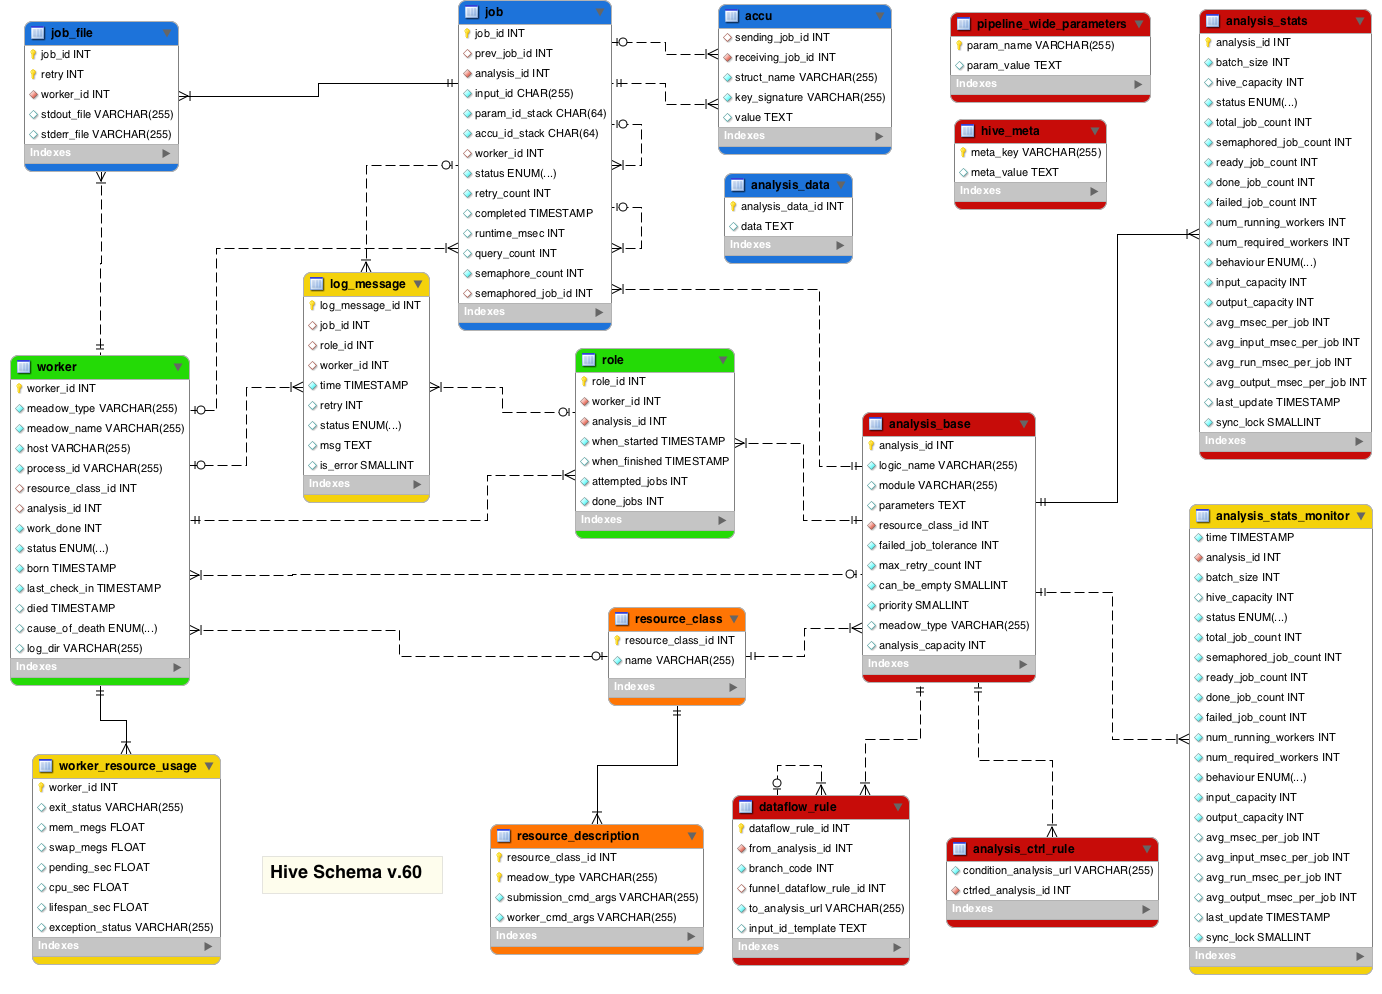
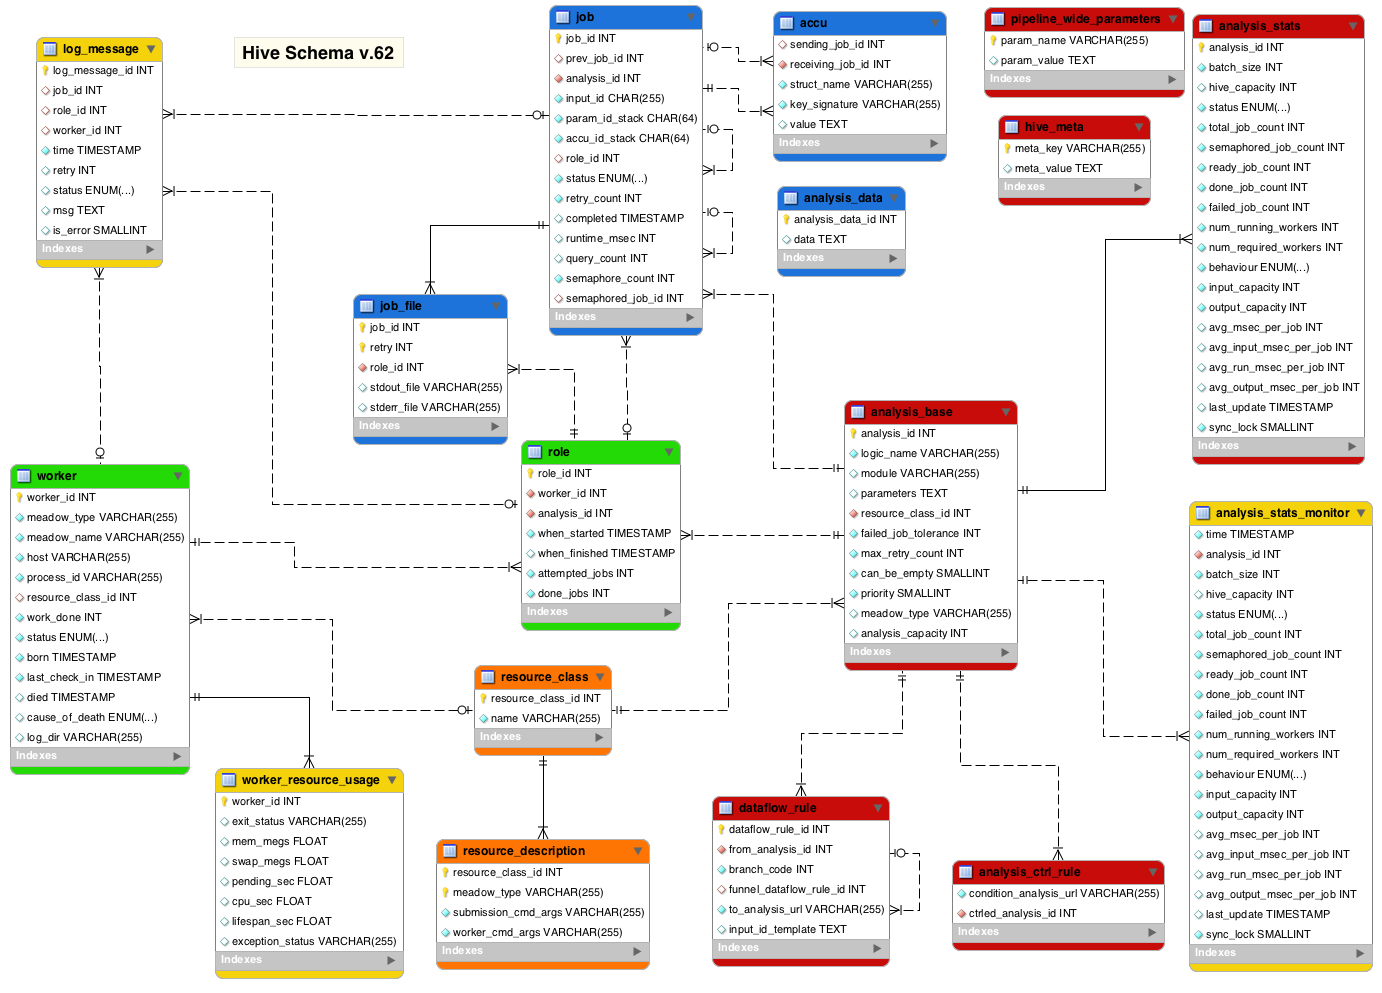
updated schema diagram and docs for schema v.62

diff --git a/docs/hive_schema.html b/docs/hive_schema.html
@@ -398,8 +398,8 @@ You can toggle the display of individual columns using [Show/Hide columns] butto
       <tr class="bg2"><td><b>input_id</b></td><td>CHAR(255)</td><td></td><td>input data passed into Analysis:RunnableDB to control the work</td><td>unique  key: input_id_stacks_analysis</td></tr>
       <tr class="bg1"><td><b>param_id_stack</b></td><td>CHAR(64)</td><td>''</td><td>a CSV of job_ids whose input_ids contribute to the stack of local variables for the job</td><td>unique  key: input_id_stacks_analysis</td></tr>
       <tr class="bg2"><td><b>accu_id_stack</b></td><td>CHAR(64)</td><td>''</td><td>a CSV of job_ids whose accu's contribute to the stack of local variables for the job</td><td>unique  key: input_id_stacks_analysis</td></tr>
-      <tr class="bg1"><td><b>worker_id</b></td><td>INTEGER</td><td>NULL</td><td>link to worker table to define which worker claimed this job</td><td>key: worker_id</td></tr>
-      <tr class="bg2"><td><b>status</b></td><td>ENUM('SEMAPHORED','READY','CLAIMED','COMPILATION','PRE_CLEANUP','FETCH_INPUT','RUN','WRITE_OUTPUT','POST_CLEANUP','DONE','FAILED','PASSED_ON')</td><td>'READY'</td><td>state the job is in</td><td>key: analysis_status_retry<br />key: worker_id</td></tr>
+      <tr class="bg1"><td><b>role_id</b></td><td>INTEGER</td><td>NULL</td><td>links to the Role that claimed this job (NULL means it has never been claimed)</td><td>key: role_status</td></tr>
+      <tr class="bg2"><td><b>status</b></td><td>ENUM('SEMAPHORED','READY','CLAIMED','COMPILATION','PRE_CLEANUP','FETCH_INPUT','RUN','WRITE_OUTPUT','POST_CLEANUP','DONE','FAILED','PASSED_ON')</td><td>'READY'</td><td>state the job is in</td><td>key: analysis_status_retry<br />key: role_status</td></tr>
       <tr class="bg1"><td><b>retry_count</b></td><td>INTEGER</td><td>0</td><td>number times job had to be reset when worker failed to run it</td><td>key: analysis_status_retry</td></tr>
       <tr class="bg2"><td><b>completed</b></td><td>TIMESTAMP</td><td></td><td>when the job was completed</td><td></td></tr>
       <tr class="bg1"><td><b>runtime_msec</b></td><td>INTEGER</td><td>NULL</td><td>how long did it take to execute the job (or until the moment it failed)</td><td></td></tr>
@@ -426,8 +426,8 @@ You can toggle the display of individual columns using [Show/Hide columns] butto
     <table style="border:1px solid #667aa6;padding:0px;min-width:1000px;max-width:1200px">
       <tr class="center" style="color:#FFFFFF;background-color:#667aa6"><th style="color:#FFF;padding:2px">Column</th><th style="color:#FFF;padding:2px">Type</th><th style="color:#FFF;padding:2px;min-width:80px">Default value</th><th style="color:#FFF;padding:2px;min-width:500px">Description</th><th style="color:#FFF;padding:2px;min-width:100px">Index</th></tr>
       <tr class="bg1"><td><b>job_id</b></td><td>INTEGER</td><td></td><td>foreign key</td><td>primary key</td></tr>
-      <tr class="bg2"><td><b>worker_id</b></td><td>INTEGER</td><td></td><td>link to worker table to define which worker claimed this job</td><td>key: worker_id</td></tr>
-      <tr class="bg1"><td><b>retry</b></td><td>INTEGER</td><td></td><td>copy of retry_count of job as it was run</td><td>primary key</td></tr>
+      <tr class="bg2"><td><b>retry</b></td><td>INTEGER</td><td></td><td>copy of retry_count of job as it was run</td><td>primary key</td></tr>
+      <tr class="bg1"><td><b>role_id</b></td><td>INTEGER</td><td></td><td>links to the Role that claimed this job</td><td>key: role</td></tr>
       <tr class="bg2"><td><b>stdout_file</b></td><td>VARCHAR(255)</td><td></td><td>path to the job's STDOUT log</td><td></td></tr>
       <tr class="bg1"><td><b>stderr_file</b></td><td>VARCHAR(255)</td><td></td><td>path to the job's STDERR log</td><td></td></tr>
     </table>
@@ -505,14 +505,13 @@ You can toggle the display of individual columns using [Show/Hide columns] butto
       <tr class="bg2"><td><b>host</b></td><td>VARCHAR(255)</td><td></td><td>execution host name</td><td></td></tr>
       <tr class="bg1"><td><b>process_id</b></td><td>VARCHAR(255)</td><td></td><td>identifies the Worker process on the Meadow (for 'LOCAL' is the OS PID)</td><td>key: meadow_process</td></tr>
       <tr class="bg2"><td><b>resource_class_id</b></td><td>INTEGER</td><td>NULL</td><td>links to Worker's resource class</td><td></td></tr>
-      <tr class="bg1"><td><b>analysis_id</b></td><td>INTEGER</td><td>NULL</td><td>Analysis the Worker is specified into</td><td>key: analysis_status</td></tr>
-      <tr class="bg2"><td><b>work_done</b></td><td>INTEGER</td><td>0</td><td>how many jobs the Worker has completed successfully</td><td></td></tr>
-      <tr class="bg1"><td><b>status</b></td><td>ENUM('SPECIALIZATION','COMPILATION','READY','PRE_CLEANUP','FETCH_INPUT','RUN','WRITE_OUTPUT','POST_CLEANUP','DEAD')</td><td>'READY'</td><td>current status of the Worker</td><td>key: analysis_status</td></tr>
-      <tr class="bg2"><td><b>born</b></td><td>TIMESTAMP</td><td>CURRENT_TIMESTAMP</td><td>when the Worker process was started</td><td></td></tr>
-      <tr class="bg1"><td><b>last_check_in</b></td><td>TIMESTAMP</td><td></td><td>when the Worker last checked into the database</td><td></td></tr>
-      <tr class="bg2"><td><b>died</b></td><td>TIMESTAMP</td><td></td><td>if defined, when the Worker died (or its premature death was first detected by GC)</td><td></td></tr>
-      <tr class="bg1"><td><b>cause_of_death</b></td><td>ENUM('NO_ROLE', 'NO_WORK', 'JOB_LIMIT', 'HIVE_OVERLOAD', 'LIFESPAN', 'CONTAMINATED', 'RELOCATED', 'KILLED_BY_USER', 'MEMLIMIT', 'RUNLIMIT', 'SEE_MSG', 'UNKNOWN')</td><td>NULL</td><td>if defined, why did the Worker exit (or why it was killed)</td><td></td></tr>
-      <tr class="bg2"><td><b>log_dir</b></td><td>VARCHAR(255)</td><td>NULL</td><td>if defined, a filesystem directory where this Worker's output is logged</td><td></td></tr>
+      <tr class="bg1"><td><b>work_done</b></td><td>INTEGER</td><td>0</td><td>how many jobs the Worker has completed successfully</td><td></td></tr>
+      <tr class="bg2"><td><b>status</b></td><td>ENUM('SPECIALIZATION','COMPILATION','READY','PRE_CLEANUP','FETCH_INPUT','RUN','WRITE_OUTPUT','POST_CLEANUP','DEAD')</td><td>'READY'</td><td>current status of the Worker</td><td></td></tr>
+      <tr class="bg1"><td><b>born</b></td><td>TIMESTAMP</td><td>CURRENT_TIMESTAMP</td><td>when the Worker process was started</td><td></td></tr>
+      <tr class="bg2"><td><b>last_check_in</b></td><td>TIMESTAMP</td><td></td><td>when the Worker last checked into the database</td><td></td></tr>
+      <tr class="bg1"><td><b>died</b></td><td>TIMESTAMP</td><td></td><td>if defined, when the Worker died (or its premature death was first detected by GC)</td><td></td></tr>
+      <tr class="bg2"><td><b>cause_of_death</b></td><td>ENUM('NO_ROLE', 'NO_WORK', 'JOB_LIMIT', 'HIVE_OVERLOAD', 'LIFESPAN', 'CONTAMINATED', 'RELOCATED', 'KILLED_BY_USER', 'MEMLIMIT', 'RUNLIMIT', 'SEE_MSG', 'UNKNOWN')</td><td>NULL</td><td>if defined, why did the Worker exit (or why it was killed)</td><td></td></tr>
+      <tr class="bg1"><td><b>log_dir</b></td><td>VARCHAR(255)</td><td>NULL</td><td>if defined, a filesystem directory where this Worker's output is logged</td><td></td></tr>
     </table>
   </div>
 
